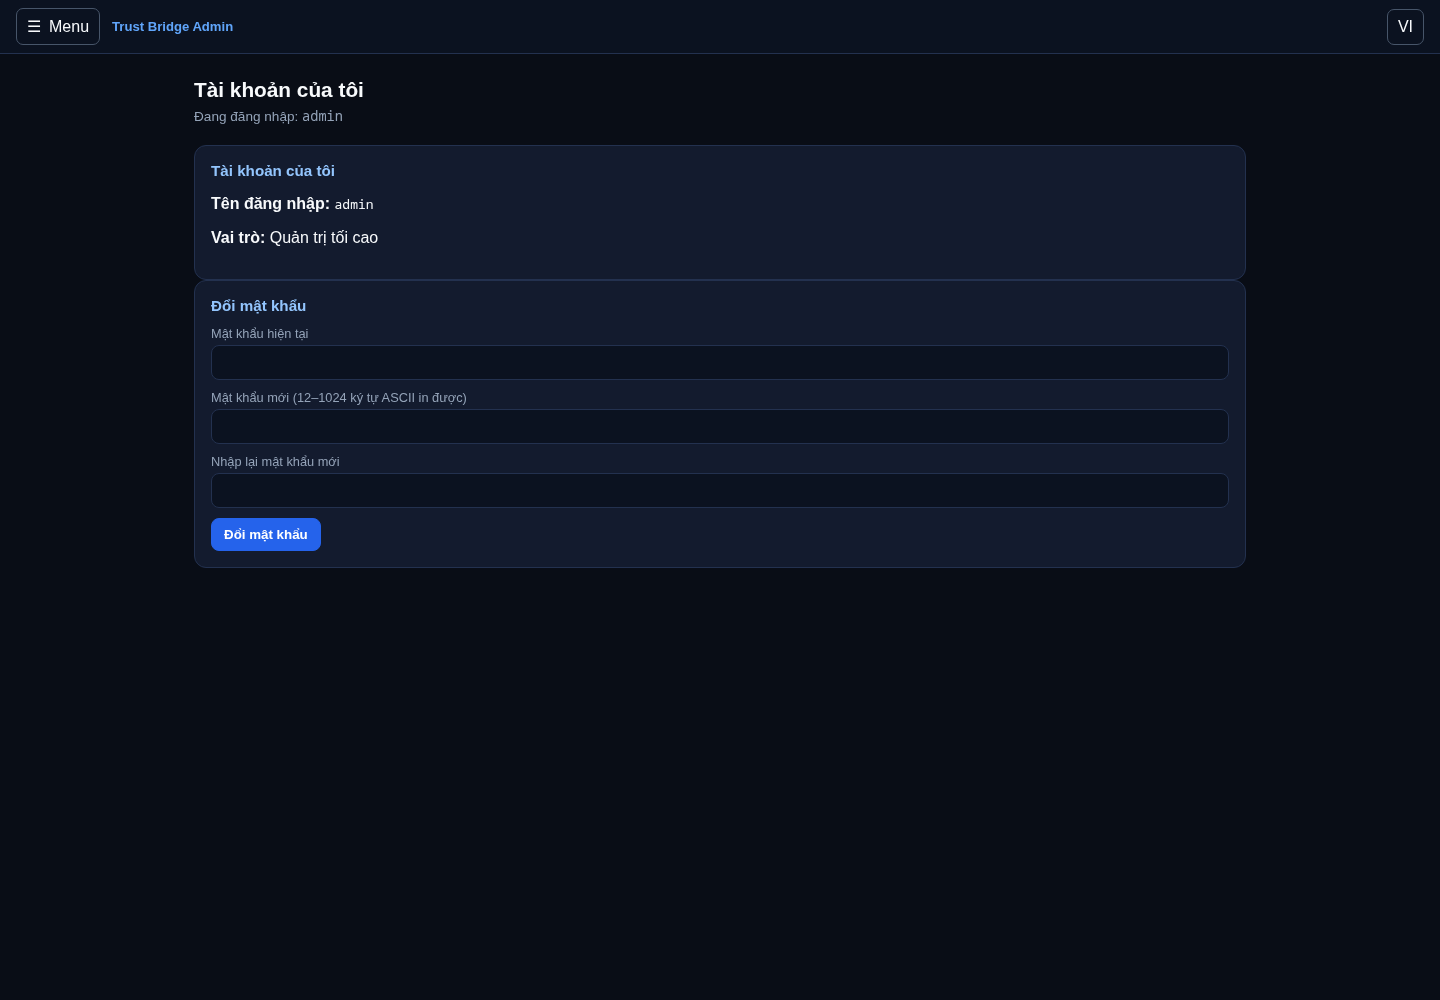
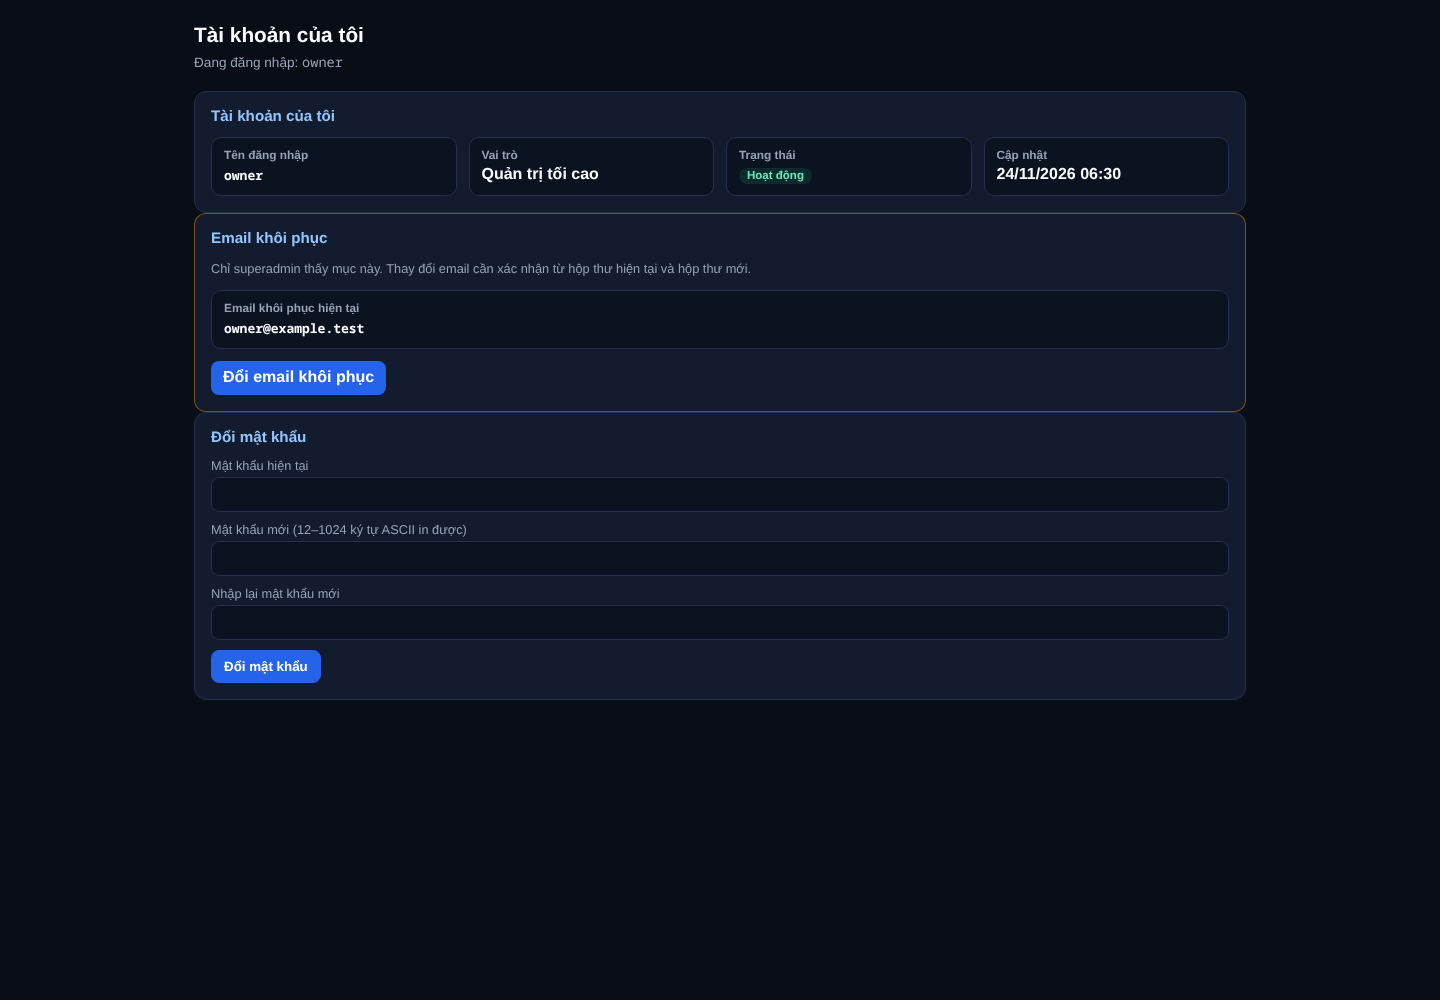
feat: add hardened superadmin recovery block to account page
- Render recovery email only for superadmin, with a direct challenge link.
- Add account status/update cards and bilingual labels.
- Add no-store, frame, CSP, referrer, and permissions headers to admin account pages.
- Cover superadmin visibility and non-superadmin absence with a PostgreSQL test.

diff --git a/static/ui/admin_i18n.js b/static/ui/admin_i18n.js
@@ -29,6 +29,12 @@
       trash_hint: 'Có thể khôi phục tài khoản trong vòng 30 ngày sau khi xóa.',
       th_deleted_at: 'Xóa lúc', th_deleted_by: 'Người xóa',
       account_self_heading: 'Tài khoản của tôi',
+      account_status: 'Trạng thái', account_updated: 'Cập nhật',
+      recovery_email_heading: 'Email khôi phục',
+      recovery_email_label: 'Email khôi phục hiện tại',
+      recovery_email_unset: 'Chưa cấu hình',
+      recovery_email_security: 'Chỉ superadmin thấy mục này. Thay đổi email cần xác nhận từ hộp thư hiện tại và hộp thư mới.',
+      change_recovery_email: 'Đổi email khôi phục',
       change_password_heading: 'Đổi mật khẩu',
       current_password: 'Mật khẩu hiện tại',
       new_password_hint: 'Mật khẩu mới (12–1024 ký tự ASCII in được)',
@@ -127,6 +133,12 @@
       trash_hint: 'Deleted accounts can be restored for 30 days.',
       th_deleted_at: 'Deleted', th_deleted_by: 'Deleted by',
       account_self_heading: 'My account',
+      account_status: 'Status', account_updated: 'Updated',
+      recovery_email_heading: 'Recovery email',
+      recovery_email_label: 'Current recovery email',
+      recovery_email_unset: 'Not configured',
+      recovery_email_security: 'Only superadmins see this block. Changing it requires confirmation from both the current and new mailbox.',
+      change_recovery_email: 'Change recovery email',
       change_password_heading: 'Change password',
       current_password: 'Current password',
       new_password_hint: 'New password (12–1024 printable ASCII characters)',

diff --git a/routers/admin_accounts.py b/routers/admin_accounts.py
@@ -117,6 +117,20 @@ def _action_form(
     )
 
 
+_ACCOUNT_HEADERS = {
+    "Cache-Control": "no-store",
+    "Pragma": "no-cache",
+    "Referrer-Policy": "same-origin",
+    "X-Content-Type-Options": "nosniff",
+    "X-Frame-Options": "DENY",
+    "Permissions-Policy": "camera=(), microphone=(), geolocation=()",
+    "Content-Security-Policy": (
+        "default-src 'none'; style-src 'unsafe-inline'; script-src 'self'; "
+        "img-src 'self' data:; form-action 'self'; base-uri 'none'; frame-ancestors 'none'"
+    ),
+}
+
+
 def _render(
     title: str, admin_user: str, content: str, msg: str = "", err: str = "",
     title_key: str = "",
@@ -166,6 +180,14 @@ tr:last-child td {{ border-bottom:none; }}
 .manage-body {{ margin-top:10px; padding:12px; border:1px solid var(--border); border-radius:10px; background:#0b1220; min-width:260px; }}
 .manage-body form {{ margin-bottom:10px; }}
 .muted {{ color:var(--muted); font-size:.78rem; }}
+.meta-grid {{ display:grid; grid-template-columns:repeat(auto-fit,minmax(180px,1fr)); gap:12px; }}
+.meta-item {{ background:#0b1220; border:1px solid var(--border); border-radius:10px; padding:10px 12px; min-width:0; }}
+.meta-key {{ color:var(--muted); font-size:.74rem; font-weight:600; margin-bottom:4px; }}
+.meta-value {{ font-weight:700; overflow-wrap:anywhere; }}
+.recovery-card {{ border-color:rgba(245,158,11,.45); }}
+.security-note {{ color:var(--muted); font-size:.8rem; line-height:1.5; margin:0 0 12px; }}
+.recovery-actions {{ margin-top:12px; }}
+.button-link {{ display:inline-flex; align-items:center; justify-content:center; padding:8px 12px; border-radius:8px; background:var(--accent); color:#fff; font-weight:700; text-decoration:none; }}
 .notice {{ padding:10px 12px; border-radius:8px; margin-bottom:16px; font-size:.85rem; }}
 .notice.ok {{ background:rgba(16,185,129,.15); color:#a7f3d0; }}
 .notice.bad {{ background:rgba(239,68,68,.15); color:#fecaca; }}
@@ -278,12 +300,55 @@ def _render_accounts(admin_user: str, accounts, deleted, msg: str, err: str) -> 
 
 
 def _render_own_account(admin_user: str, account, msg: str = "", err: str = "") -> str:
+    role = str(account.get("role") or "")
+    active = bool(account.get("is_active"))
+    status_key = "status_on" if active else "status_off"
+    status_text = "Hoạt động" if active else "Đã tắt"
+    recovery_block = ""
+    if role == "superadmin":
+        recovery_email = str(account.get("recovery_email") or "").strip()
+        recovery_value = (
+            f"<code>{html.escape(recovery_email)}</code>"
+            if recovery_email
+            else '<span class="muted" data-i18n="recovery_email_unset">Chưa cấu hình</span>'
+        )
+        recovery_block = f"""
+<section class="card recovery-card">
+  <h2 data-i18n="recovery_email_heading">Email khôi phục</h2>
+  <p class="security-note" data-i18n="recovery_email_security">Chỉ superadmin thấy mục này. Thay đổi email cần xác nhận từ hộp thư hiện tại và hộp thư mới.</p>
+  <div class="meta-grid">
+    <div class="meta-item">
+      <div class="meta-key" data-i18n="recovery_email_label">Email khôi phục hiện tại</div>
+      <div class="meta-value">{recovery_value}</div>
+    </div>
+  </div>
+  <div class="recovery-actions">
+    <a class="button-link" href="/admin/recovery/email" data-i18n="change_recovery_email">Đổi email khôi phục</a>
+  </div>
+</section>"""
     content = f"""
 <section class="card">
   <h2 data-i18n="account_self_heading">Tài khoản của tôi</h2>
-  <p><b><span data-i18n="username">Tên đăng nhập</span>:</b> <code>{html.escape(admin_user)}</code></p>
-  <p><b><span data-i18n="role">Vai trò</span>:</b> <span data-role-label="{html.escape(str(account.get("role") or ""))}">{html.escape(_role_label(str(account.get("role") or "")))}</span></p>
+  <div class="meta-grid">
+    <div class="meta-item">
+      <div class="meta-key" data-i18n="username">Tên đăng nhập</div>
+      <div class="meta-value"><code>{html.escape(admin_user)}</code></div>
+    </div>
+    <div class="meta-item">
+      <div class="meta-key" data-i18n="role">Vai trò</div>
+      <div class="meta-value"><span data-role-label="{html.escape(role)}">{html.escape(_role_label(role))}</span></div>
+    </div>
+    <div class="meta-item">
+      <div class="meta-key" data-i18n="account_status">Trạng thái</div>
+      <div class="meta-value"><span class="badge {'on' if active else 'off'}" data-i18n="{status_key}">{status_text}</span></div>
+    </div>
+    <div class="meta-item">
+      <div class="meta-key" data-i18n="account_updated">Cập nhật</div>
+      <div class="meta-value">{_date(account.get("updated_at"))}</div>
+    </div>
+  </div>
 </section>
+{recovery_block}
 <section class="card">
   <h2 data-i18n="change_password_heading">Đổi mật khẩu</h2>
   {_password_form(ACCOUNT_PASSWORD_PATH)}
@@ -296,7 +361,7 @@ async def admin_accounts_page(msg: str = "", err: str = "", admin_user: str = De
     pool = await _accounts_pool()
     accounts = await list_admin_accounts(pool)
     deleted = await list_deleted_admin_accounts(pool)
-    return HTMLResponse(_render_accounts(admin_user, accounts, deleted, msg, err))
+    return HTMLResponse(_render_accounts(admin_user, accounts, deleted, msg, err), headers=_ACCOUNT_HEADERS)
 
 
 @router.get(ACCOUNT_PATH, response_class=HTMLResponse)
@@ -307,7 +372,7 @@ async def admin_own_account_page(
     account = await get_admin_account(pool, admin_user)
     if not account:
         raise HTTPException(status_code=401, detail="Tài khoản không còn hoạt động.")
-    return HTMLResponse(_render_own_account(admin_user, account, msg=msg, err=err))
+    return HTMLResponse(_render_own_account(admin_user, account, msg=msg, err=err), headers=_ACCOUNT_HEADERS)
 
 
 @router.get(PASSWORD_PATH)
@@ -340,7 +405,7 @@ async def change_admin_password(
     await _audit(pool, "ADMIN_PASSWORD_CHANGED", admin_user, admin_user)
     # Basic auth may still send the old password on this response.
     account = await get_admin_account(pool, admin_user)
-    return HTMLResponse(_render_own_account(admin_user, account or {}, msg="password_changed"))
+    return HTMLResponse(_render_own_account(admin_user, account or {}, msg="password_changed"), headers=_ACCOUNT_HEADERS)
 
 
 @router.post(ACCOUNTS_PATH)

diff --git a/tests/test_admin_accounts.py b/tests/test_admin_accounts.py
@@ -229,6 +229,34 @@ async def test_staff_routes_require_superadmin_except_own_password(accounts_db):
 
 @postgres
 @async_test
+async def test_own_account_recovery_block_is_superadmin_only_and_hardened(accounts_db):
+    pool = accounts_db
+    assert await create_admin_account(pool, "owner", _fixture_hash(), "superadmin")
+    assert await create_admin_account(pool, "manager", _fixture_hash(), "manager")
+    async with pool.connection() as conn:
+        await conn.execute(
+            "UPDATE admin_accounts SET recovery_email=%s WHERE username='owner'",
+            ("owner@example.test",),
+        )
+        await conn.commit()
+
+    async with _client() as client:
+        owner = await client.get(ACCOUNT_PAGE, auth=("owner", TEST_PASSWORD))
+        assert owner.status_code == 200
+        assert "owner@example.test" in owner.text
+        assert "/admin/recovery/email" in owner.text
+        assert owner.headers["cache-control"] == "no-store"
+        assert owner.headers["x-frame-options"] == "DENY"
+        assert "frame-ancestors 'none'" in owner.headers["content-security-policy"]
+
+        manager = await client.get(ACCOUNT_PAGE, auth=("manager", TEST_PASSWORD))
+        assert manager.status_code == 200
+        assert "owner@example.test" not in manager.text
+        assert "/admin/recovery/email" not in manager.text
+
+
+@postgres
+@async_test
 async def test_staff_management_and_bin(accounts_db):
     pool = accounts_db
     assert await create_admin_account(pool, "owner", _fixture_hash(), "superadmin")

diff --git a/docs/HUONG_DAN_QUAN_TRI.md b/docs/HUONG_DAN_QUAN_TRI.md
@@ -48,7 +48,7 @@ Menu trên cùng bên trái gồm:
 - **Ảnh/Object**: định nghĩa object ảnh và engine đang có
 - **Module**: logic, object và engine module trong cơ sở dữ liệu
 - **Exports**: cấu hình xuất Google Drive
-- **Tài khoản của tôi**: đổi mật khẩu và xem vai trò
+- **Tài khoản của tôi**: xem vai trò, trạng thái, email khôi phục (superadmin) và đổi mật khẩu
 - **Quản lý tài khoản**: chỉ superadmin
 - **Thùng rác**: khôi phục biểu mẫu và bài nộp đã xóa
 - **Email khôi phục**: chỉ superadmin
@@ -232,7 +232,12 @@ Trang này hiển thị:
 
 - Tên đăng nhập
 - Vai trò hiện tại
+- Trạng thái tài khoản
+- Thời điểm cập nhật
+- Email khôi phục, chỉ với superadmin
 - Form đổi mật khẩu
+
+Superadmin thấy thêm khối **Email khôi phục** và nút **Đổi email khôi phục**. Việc đổi email đi qua trang xác nhận riêng, cần truy cập cả hộp thư hiện tại và hộp thư mới. Các vai trò khác không thấy email này trong HTML.
 
 Đổi mật khẩu cần nhập mật khẩu hiện tại, mật khẩu mới và xác nhận. Mật khẩu mới phải dài 12 đến 1024 ký tự ASCII in được.
 
